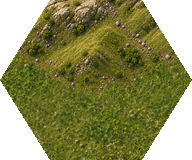
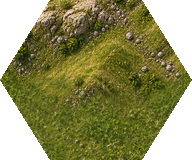
Massif fills its four hexes and fades its slopes into the meadow
The four-hex massif (tile/mountN/E/S/W in summer, winter and autumn) was
scaled to inset 0.65 and ended at a hard rim inside a wide meadow margin.
A new compound option, slope_fade, fades a cut-out towards its outline in
noisy patches (a blurred alpha against a value-noise threshold, in world
px) before it is scaled into the scene, so the boundary guard passes at
inset 1. compound-mountain-v3.json sets inset 1 and slope_fade 56 for the
massif; the single-hex mountain keeps inset 0.55 without the fade.
TestGenerateCompoundTiles regenerates the massif as well.

Claude-Session: https://claude.ai/code/session_01L5uDarvbftJsD76ersxgnD

diff --git a/tools/art-review/compound_export.go b/tools/art-review/compound_export.go
@@ -62,6 +62,7 @@ type compoundSceneReport struct {
 	EntryRoad    *connectionMaterial      `json:"entry_road,omitempty"`
 	EdgeFeather  float64                  `json:"edge_feather,omitempty"`
 	EdgeKeep     [][]connectionPoint      `json:"edge_keep,omitempty"`
+	SlopeFade    float64                  `json:"slope_fade,omitempty"`
 	Transform    compoundTransform        `json:"transform"`
 	Profile      string                   `json:"profile"`
 	Guard        compoundGuardReport      `json:"guard"`
@@ -201,7 +202,13 @@ func compoundRenderPatch(p compoundPatch, ground *image.NRGBA, tiles map[string]
 // into the road, framed, and (with edge_feather) feathered. framed is the
 // artwork before the feather.
 func compoundSceneArtwork(in compoundInputs, s compoundSceneInput, layout compoundLayout) (framed, art4 *image.NRGBA, tr compoundTransform, guard compoundGuardReport, err error) {
-	raw, tr, err := compoundAffine(in.Artwork[s.ID].Image, layout, s.Inset, s.fit())
+	src := in.Artwork[s.ID].Image
+	if s.SlopeFade != 0 {
+		// Slope fade excludes fill, so the artwork is letterboxed at this scale.
+		scale := min(float64(layout.Width)/float64(src.Rect.Dx()), float64(layout.Height)/float64(src.Rect.Dy())) * s.Inset
+		src = compoundSlopeFade(src, scale, s.SlopeFade)
+	}
+	raw, tr, err := compoundAffine(src, layout, s.Inset, s.fit())
 	if err != nil {
 		return nil, nil, tr, guard, err
 	}
@@ -292,7 +299,10 @@ func buildCompoundBundle(in compoundInputs) (compoundBundle, error) {
 				profile += fmt.Sprintf(" Inside its %d keep polygons (edge_keep) the artwork keeps its alpha exactly; within %g world px outside them the feather eases back in by smoothstep.", len(s.EdgeKeep), compoundKeepRamp)
 			}
 		}
-		sr := compoundSceneReport{ID: s.ID, compoundLayout: layout, InputArtwork: b.retain("sources/"+s.ID+".png", in.Artwork[s.ID]), Inset: s.Inset, Framing: s.Framing, Shift: s.Shift, Zoom: s.Zoom, EntryRoad: s.EntryRoad, EdgeFeather: s.EdgeFeather, EdgeKeep: s.EdgeKeep, Transform: tr, Profile: profile, Guard: guard}
+		if s.SlopeFade != 0 {
+			profile += fmt.Sprintf(" Slope fade: before scaling, the artwork's alpha is faded towards its own outline over about %g world px: scaled by smoothstep of the smaller of (b-0.5)/0.3 and (b-e+0.1)/0.2, b the alpha blurred twice by a box of %g world px, e between 0.45 and 0.9 by two octaves of value noise (cells %g and %g world px).", s.SlopeFade, s.SlopeFade/2, compoundSlopeCell, compoundSlopeCell2)
+		}
+		sr := compoundSceneReport{ID: s.ID, compoundLayout: layout, InputArtwork: b.retain("sources/"+s.ID+".png", in.Artwork[s.ID]), Inset: s.Inset, Framing: s.Framing, Shift: s.Shift, Zoom: s.Zoom, EntryRoad: s.EntryRoad, EdgeFeather: s.EdgeFeather, EdgeKeep: s.EdgeKeep, SlopeFade: s.SlopeFade, Transform: tr, Profile: profile, Guard: guard}
 		for _, density := range []int{2, 4} {
 			art := art4
 			if density == 2 {

diff --git a/tools/art-review/compound_slope.go b/tools/art-review/compound_slope.go
@@ -1,0 +1,89 @@
+package artreview
+
+import (
+	"errors"
+	"fmt"
+	"image"
+	"math"
+)
+
+// Slope fade bounds (world px) and its noise cells (world px).
+const (
+	compoundSlopeMin   = 8.0
+	compoundSlopeMax   = 80.0
+	compoundSlopeCell  = 11.0
+	compoundSlopeCell2 = 3.6
+)
+
+// compoundValidateSlope allows a slope fade on scenes that keep the default
+// guard: the fade is what lets a free-standing cut-out grow towards the outer
+// boundary.
+func compoundValidateSlope(framing string, width float64) error {
+	if width == 0 {
+		return nil
+	}
+	if framing == "reference-layout" {
+		return errors.New("slope_fade excludes reference-layout framing")
+	}
+	if !(width >= compoundSlopeMin && width <= compoundSlopeMax) {
+		return fmt.Errorf("slope_fade must lie in [%g,%g] world px", compoundSlopeMin, compoundSlopeMax)
+	}
+	return nil
+}
+
+// compoundSlopeFade fades a cut-out's alpha towards its own outline over about
+// width world px (scale world px per source px), so its lower slopes break into
+// patches over the ground instead of ending at a rim. b is the alpha blurred
+// twice by a box of width/2: 1/2 on a straight outline, 1 width inside. Alpha is
+// scaled by smoothstep of the smaller of (b-0.5)/0.3, which reaches zero on the
+// outline, and (b-e+0.1)/0.2 with e between 0.45 and 0.9 by two octaves of value
+// noise in world coordinates.
+func compoundSlopeFade(src *image.NRGBA, scale, width float64) *image.NRGBA {
+	w, h := src.Rect.Dx(), src.Rect.Dy()
+	out := image.NewNRGBA(image.Rect(0, 0, w, h))
+	a := make([]float64, w*h)
+	for y := range h {
+		for x := range w {
+			a[y*w+x] = float64(src.Pix[y*src.Stride+x*4+3]) / 255
+		}
+	}
+	r := max(1, int(math.Round(width/scale/2)))
+	b := compoundBoxBlur(compoundBoxBlur(a, w, h, r), w, h, r)
+	for y := range h {
+		for x := range w {
+			i := y*w + x
+			p := connectionPoint{float64(x) * scale, float64(y) * scale}
+			e := .45 + .45*(.65*compoundValueNoise(p, compoundSlopeCell, 41)+.35*compoundValueNoise(p, compoundSlopeCell2, 43))
+			t := connectionSmoothStep(min((b[i]-e+.1)/.2, (b[i]-.5)/.3))
+			s, d := src.Pix[y*src.Stride+x*4:], out.Pix[y*out.Stride+x*4:]
+			copy(d[:3], s[:3])
+			d[3] = uint8(math.Round(a[i] * t * 255))
+		}
+	}
+	return out
+}
+
+// compoundBoxBlur averages v (w×h) over a (2r+1)² box, zero outside.
+func compoundBoxBlur(v []float64, w, h, r int) []float64 {
+	pass := func(in []float64, n, lines, stride, step int) []float64 {
+		out := make([]float64, len(in))
+		for j := range lines {
+			at := func(i int) float64 {
+				if i < 0 || i >= n {
+					return 0
+				}
+				return in[j*stride+i*step]
+			}
+			sum := 0.0
+			for i := -r; i <= r; i++ {
+				sum += at(i)
+			}
+			for i := range n {
+				out[j*stride+i*step] = sum / float64(2*r+1)
+				sum += at(i+r+1) - at(i-r)
+			}
+		}
+		return out
+	}
+	return pass(pass(v, w, h, w, 1), h, w, 1, w)
+}

diff --git a/tools/art-review/compound_input.go b/tools/art-review/compound_input.go
@@ -38,6 +38,10 @@ type compoundSceneInput struct {
 	// feather keeps the artwork exactly: walls, towers, fences and buildings
 	// that reach the boundary keep their straight edge.
 	EdgeKeep [][]connectionPoint `json:"edge_keep,omitempty"`
+	// SlopeFade (world px; free-standing cut-outs such as the massif) fades the
+	// artwork towards its own outline in noisy patches, so it can fill the scene
+	// and still melt into the ground inside the guard.
+	SlopeFade float64 `json:"slope_fade,omitempty"`
 }
 
 // fit is how the scene's artwork maps onto its box: reference-layout scenes
@@ -143,7 +147,7 @@ func decodeCompoundManifest(b []byte, m *compoundManifest) error {
 		}
 	}
 	for _, s := range scenes {
-		if err := keys(s, "id", "artwork", "inset", "framing", "shift", "zoom", "entry_road", "edge_feather", "edge_keep"); err != nil {
+		if err := keys(s, "id", "artwork", "inset", "framing", "shift", "zoom", "entry_road", "edge_feather", "edge_keep", "slope_fade"); err != nil {
 			return err
 		}
 		if road, ok := s["entry_road"]; ok {
@@ -329,6 +333,9 @@ func loadCompoundInputs(path string) (compoundInputs, error) {
 			in.EntryRoads[s.ID] = road
 		}
 		if e = compoundValidateFeather(l, s.Framing, s.EdgeFeather, s.EntryRoad != nil, s.EdgeKeep); e != nil {
+			return in, fmt.Errorf("%s: %w", s.ID, e)
+		}
+		if e = compoundValidateSlope(s.Framing, s.SlopeFade); e != nil {
 			return in, fmt.Errorf("%s: %w", s.ID, e)
 		}
 		src, e := compoundReadSource(sourceBase(path), s.Artwork, false)

diff --git a/tools/art-review/compound_slope_test.go b/tools/art-review/compound_slope_test.go
@@ -1,0 +1,47 @@
+package artreview
+
+import (
+	"image"
+	"image/color"
+	"testing"
+)
+
+func TestCompoundValidateSlope(t *testing.T) {
+	for _, tc := range []struct {
+		framing string
+		width   float64
+		ok      bool
+	}{{"", 0, true}, {"", 56, true}, {"", 7, false}, {"", 81, false}, {"reference-layout", 56, false}, {"reference-layout", 0, true}} {
+		if err := compoundValidateSlope(tc.framing, tc.width); (err == nil) != tc.ok {
+			t.Errorf("%q %g: %v", tc.framing, tc.width, err)
+		}
+	}
+}
+
+// The fade clears the outline, keeps the middle of a large cut-out and its
+// colours, and never raises alpha.
+func TestCompoundSlopeFade(t *testing.T) {
+	src := image.NewNRGBA(image.Rect(0, 0, 400, 300))
+	for y := 50; y < 250; y++ {
+		for x := 50; x < 350; x++ {
+			src.SetNRGBA(x, y, color.NRGBA{uint8(x), uint8(y), 7, 255})
+		}
+	}
+	got := compoundSlopeFade(src, .5, 20)
+	for y := range 300 {
+		for x := range 400 {
+			s, g := src.NRGBAAt(x, y), got.NRGBAAt(x, y)
+			if g.A > s.A || (s.A > 0 && (g.R != s.R || g.G != s.G || g.B != s.B)) {
+				t.Fatalf("%d,%d: %v from %v", x, y, g, s)
+			}
+		}
+	}
+	for _, p := range []image.Point{{50, 150}, {349, 150}, {200, 50}, {200, 249}} {
+		if a := got.NRGBAAt(p.X, p.Y).A; a != 0 {
+			t.Errorf("outline %v keeps alpha %d", p, a)
+		}
+	}
+	if a := got.NRGBAAt(200, 150).A; a != 255 {
+		t.Errorf("middle alpha %d", a)
+	}
+}

diff --git a/tools/art-review/compound_generate_test.go b/tools/art-review/compound_generate_test.go
@@ -3,8 +3,8 @@
 package artreview
 
 // Explicit offline generator: go test -tags campaigngfx ./tools/art-review -run TestGenerateCompoundTiles -count=1 -v
-// Renders the selected HQ, depot and factory scenes and replaces their
-// installed tile PNGs (tile/hq*, cmp*, factory*, both seasons) in place,
+// Renders the selected HQ, depot, factory and massif scenes and replaces their
+// installed tile PNGs (tile/hq*, cmp*, factory*, mount*, mountain*, both seasons) in place,
 // updating each file's hash in assets/index.json; run `go run ./cmd/hl art index`
 // afterwards. A manifest whose summer artwork has an autumn or spring edit
 // also writes that season's tiles (summer ID + _au/_sp beside the summer
@@ -39,7 +39,7 @@ func TestGenerateCompoundTiles(t *testing.T) {
 	defer func() { exportSeason = "" }()
 	for _, season := range []string{"", "autumn", "spring"} {
 		exportSeason = season
-		for _, manifest := range []string{"compound-hq-v4.json", "compound-depot-v6.json", "compound-factory-v6.json", "compound-factory-summer-v4.json"} {
+		for _, manifest := range []string{"compound-hq-v4.json", "compound-depot-v6.json", "compound-factory-v6.json", "compound-factory-summer-v4.json", "compound-mountain-v3.json"} {
 			replaced += generateCompoundTiles(t, root, manifest, &entries, exported, at)
 		}
 	}

diff --git a/art/terrain/mount/prompt.md b/art/terrain/mount/prompt.md
@@ -82,8 +82,10 @@ detail. The winter edit changes only thin settled snow and dormant vegetation, p
 crest, every slab and grassy fold. Single-cell fallback tiles use the same sources; the independently
 selected summer knoll standing stamps remain separate.
 
-`art-review -compound art/pipeline/compound-mountain-v2.json` scales the mountain master into the four-cell
-scene for both seasons and slices it. Exports are fixed Lanczos3 at 2x (192x160) and 4x (384x320) with complementary half-open hex ownership; promote into `assets/terrain/<family>/` and re-index.
+`art-review -compound art/pipeline/compound-mountain-v3.json` scales the mountain master into the four-cell
+scene for both seasons and slices it. The massif fills the whole scene (inset 1); its `slope_fade` (56 world
+px) fades the lower slopes towards the outline in noisy patches, so they run out into the meadow inside the
+boundary guard instead of ending at a rim. The single-cell fallback keeps inset 0.55 without the fade. Exports are fixed Lanczos3 at 2x (192x160) and 4x (384x320) with complementary half-open hex ownership; promote into `assets/terrain/<family>/` and re-index.
 
 ## Avoid
 - visible tiling or repeated rounded "pillow" patterns

diff --git a/docs/runtime-assets.md b/docs/runtime-assets.md
@@ -204,7 +204,9 @@ streets reach the hex edge at the gate, and the first 10 world px of the street 
 road tile (`entry_road`), so the road runs on into the gate (`TestGenerateCompoundTiles` and
 `TestGenerateRuinTiles` re-export them). The painted street lies within 1 world px of that road
 (`TestCompoundEntryStreetMeetsTheRoad`). The ruin, which has no fence, fades out towards its outer edge along
-an irregular line (`edge_feather`).
+an irregular line (`edge_feather`). The massif (`tile/mountN`, `mountE`, `mountS`, `mountW`) fills its four
+hexes and fades its lower slopes towards its own outline in noisy patches (`slope_fade`,
+`art/pipeline/compound-mountain-v3.json`), so it runs out into the meadow instead of ending at a rim.
 For one adjacent stream facing a fully-land shore edge, the compositor selects
 `tile/<shore>-outlet<port>`, including derived `shore-*` shapes. The mouth shares the ordinary bank
 and water materials, retains the corner states and meets the stream's port profile. Missing variants

diff --git a/PLAN.md b/PLAN.md
@@ -346,8 +346,9 @@ stones.
       rings (G6); boulders and scrub come from the props (G7).
 - [ ] L6.2 Crater stamps for other cluster shapes; keep the per-hex fallback for unknown shapes.
 - [ ] L6.3 Knolls (G8, three variants) and massifs (G9, one per reference feature) carry no grass of their
-      own. Each is a semi-transparent shade layer over the meadow plus a standing crest. The massif inset
-      goes from 0.65 to 1.0 with 12 px overhang. Relief stays 6–10 L\* darker than grass.
+      own. Each is a semi-transparent shade layer over the meadow plus a standing crest. The massif already
+      fills its four hexes (inset 1.0, `slope_fade`); the 12 px overhang is open. Relief stays 6–10 L\*
+      darker than grass.
       - Knoll: grassy with a rocky top, about 1.5 hexes across, overhanging its hex with a grassy skirt;
         three or four variants chosen by seed; lighting fixed, so no mirroring. Exemplars `r18c7`, `r29c3`,
         `r46c4`.
